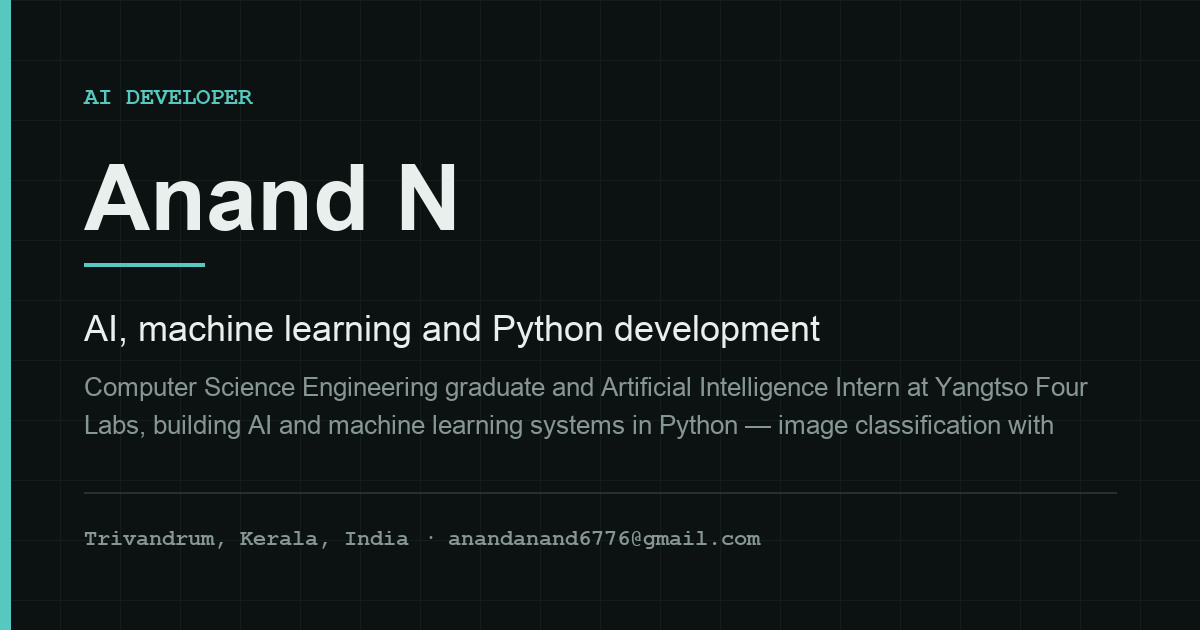
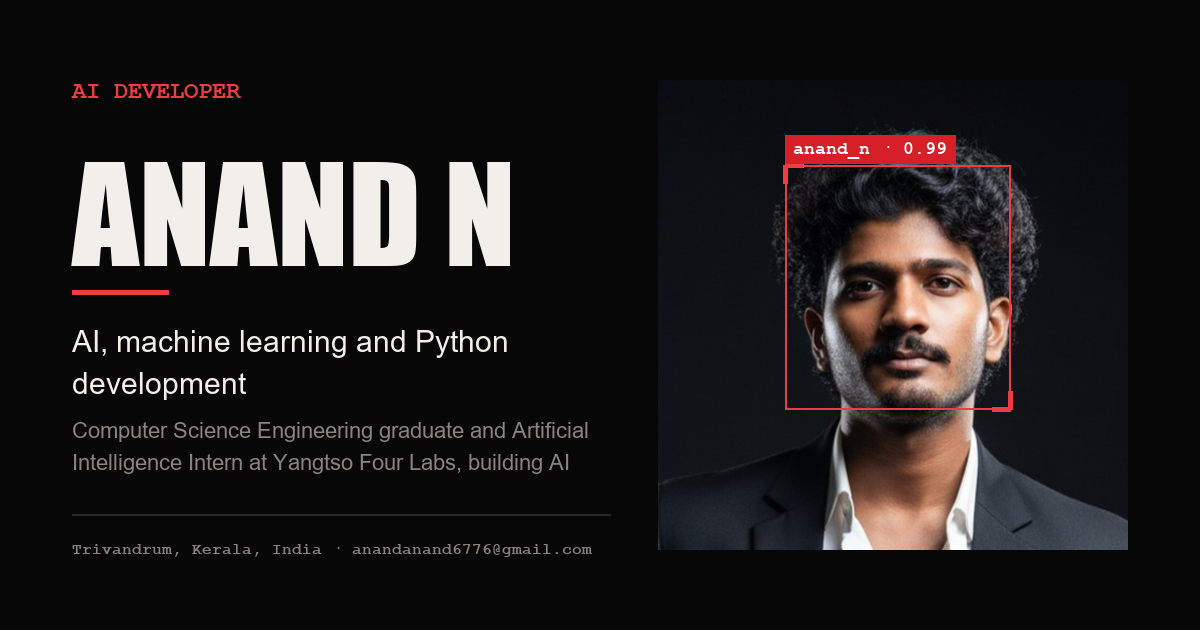
Add portrait export and redraw the link-preview card

diff --git a/portfolio/management/commands/make_og_image.py b/portfolio/management/commands/make_og_image.py
@@ -3,48 +3,60 @@ Render the link-preview (Open Graph) image.
 
 Social platforms will not render an SVG og:image and do not execute CSS, so
 the card has to exist as a raster file. Generating it from the site's own
-identity settings — rather than hand-designing one in an image editor — means
-it cannot drift out of date when the name, role or tagline changes.
+identity settings — rather than hand-designing one in an image editor —
+means it cannot drift out of date when the name, role or tagline changes.
 
-    python manage.py make_og_image
+    python manage.py make_og_image --photo design/photos/1000256302.jpg
 
-Pillow is already a dependency (ImageField), so this adds no new packages.
+The headshot is optional; without it the card is text only. Pillow is
+already a dependency (ImageField), so this adds no new packages.
 """
 from pathlib import Path
 
 from django.conf import settings
 from django.core.management.base import BaseCommand, CommandError
-from PIL import Image, ImageDraw, ImageFont
+from PIL import Image, ImageDraw, ImageFont, ImageOps
+
+from portfolio.templatetags.portfolio_extras import handle as detection_handle
 
 # Facebook, LinkedIn, Slack and X all crop toward 1.91:1.
 WIDTH, HEIGHT = 1200, 630
-MARGIN = 84
+MARGIN = 72
+PHOTO_SIZE = 470
+GAP = 48
 
 # Pulled from the dark theme in variables.css. Duplicated deliberately: the
-# generator cannot parse CSS custom properties, and a link preview that
-# silently stopped matching the site would be worse than one that is pinned.
-BG = (12, 18, 17)
-SURFACE = (20, 29, 28)
-ACCENT = (86, 200, 192)
-TEXT = (232, 239, 236)
-MUTED = (134, 150, 146)
-RULE = (38, 49, 47)
+# generator cannot parse CSS custom properties, and a preview that silently
+# stopped matching the site would be worse than one that is pinned.
+BG = (7, 7, 7)
+ACCENT = (239, 59, 66)
+ACCENT_FILL = (214, 31, 38)
+TEXT = (242, 239, 234)
+MUTED = (138, 132, 126)
+RULE = (38, 38, 38)
+WHITE = (255, 255, 255)
 
-# Preference order: the site's own typeface if it happens to be installed,
-# then a reasonable sans on each platform.
+# Where the face sits inside the square headshot crop, as fractions
+# (left, top, right, bottom). Tuned for design/photos/1000256302.jpg.
+FACE_BOX = (0.27, 0.18, 0.75, 0.70)
+
+# Preference order: the site's own typefaces if installed, then the closest
+# common system faces. Impact stands in for Anton on Windows.
 FONT_CANDIDATES = {
-    'bold': [
-        '/Library/Fonts/IBMPlexSans-Bold.ttf',
-        '~/Library/Fonts/IBMPlexSans-Bold.ttf',
-        '/usr/share/fonts/truetype/ibm-plex/IBMPlexSans-Bold.ttf',
-        '/System/Library/Fonts/Supplemental/Arial Bold.ttf',
+    'display': [
+        '~/Library/Fonts/Anton-Regular.ttf',
+        '/Library/Fonts/Anton-Regular.ttf',
+        '/usr/share/fonts/truetype/anton/Anton-Regular.ttf',
+        'C:/Windows/Fonts/Anton-Regular.ttf',
+        '/System/Library/Fonts/Supplemental/Impact.ttf',
+        '/usr/share/fonts/truetype/msttcorefonts/Impact.ttf',
+        'C:/Windows/Fonts/impact.ttf',
+        'C:/Windows/Fonts/ariblk.ttf',
         '/usr/share/fonts/truetype/dejavu/DejaVuSans-Bold.ttf',
-        'C:/Windows/Fonts/arialbd.ttf',
     ],
     'regular': [
-        '/Library/Fonts/IBMPlexSans-Regular.ttf',
-        '~/Library/Fonts/IBMPlexSans-Regular.ttf',
-        '/usr/share/fonts/truetype/ibm-plex/IBMPlexSans-Regular.ttf',
+        '~/Library/Fonts/Archivo-Regular.ttf',
+        '/usr/share/fonts/truetype/archivo/Archivo-Regular.ttf',
         '/System/Library/Fonts/Supplemental/Arial.ttf',
         '/usr/share/fonts/truetype/dejavu/DejaVuSans.ttf',
         'C:/Windows/Fonts/arial.ttf',
@@ -69,6 +81,16 @@ def _font(kind, size):
     return ImageFont.load_default()
 
 
+def _fit(draw, text, kind, size, max_width, minimum=40):
+    """The largest font of `kind`, from `size` down, that fits `text`."""
+    while size > minimum:
+        font = _font(kind, size)
+        if draw.textlength(text, font=font) <= max_width:
+            return font
+        size -= 4
+    return _font(kind, minimum)
+
+
 def _wrap(draw, text, font, max_width):
     """Greedy word wrap against the rendered width of each candidate line."""
     lines, line = [], ''
@@ -84,6 +106,37 @@ def _wrap(draw, text, font, max_width):
     return lines
 
 
+def _draw_photo(image, draw, photo_path):
+    """The headshot on the right, square-cropped, with the hero's detection box."""
+    with Image.open(photo_path) as source:
+        photo = ImageOps.fit(
+            ImageOps.exif_transpose(source).convert('RGB'),
+            (PHOTO_SIZE, PHOTO_SIZE),
+            Image.Resampling.LANCZOS,
+            centering=(0.5, 0.35),
+        )
+    left = WIDTH - MARGIN - PHOTO_SIZE
+    top = (HEIGHT - PHOTO_SIZE) // 2
+    image.paste(photo, (left, top))
+
+    x0 = left + round(PHOTO_SIZE * FACE_BOX[0])
+    y0 = top + round(PHOTO_SIZE * FACE_BOX[1])
+    x1 = left + round(PHOTO_SIZE * FACE_BOX[2])
+    y1 = top + round(PHOTO_SIZE * FACE_BOX[3])
+    draw.rectangle([x0, y0, x1, y1], outline=ACCENT, width=2)
+
+    arm = 18
+    for corner_x, corner_y, step in ((x0, y0, 1), (x1, y1, -1)):
+        draw.line([(corner_x, corner_y), (corner_x + step * arm, corner_y)], fill=ACCENT, width=5)
+        draw.line([(corner_x, corner_y), (corner_x, corner_y + step * arm)], fill=ACCENT, width=5)
+
+    label = f'{detection_handle(settings.SITE_OWNER)} · 0.99'
+    font = _font('mono', 18)
+    label_width = draw.textlength(label, font=font)
+    draw.rectangle([x0, y0 - 30, x0 + label_width + 16, y0 - 2], fill=ACCENT_FILL)
+    draw.text((x0 + 8, y0 - 26), label, font=font, fill=WHITE)
+
+
 class Command(BaseCommand):
     help = 'Render the Open Graph link-preview image into the static tree.'
 
@@ -92,61 +145,66 @@ class Command(BaseCommand):
             '--output',
             help='Destination path. Defaults to static/<OG_IMAGE_STATIC_PATH>.',
         )
+        parser.add_argument(
+            '--photo',
+            help='Optional headshot placed on the right of the card.',
+        )
 
     def handle(self, *args, **options):
         relative = settings.OG_IMAGE_STATIC_PATH
         if not relative:
             raise CommandError('OG_IMAGE_STATIC_PATH is empty; nothing to render.')
 
+        photo = Path(options['photo']) if options['photo'] else None
+        if photo is not None and not photo.is_file():
+            raise CommandError(f'{photo} does not exist.')
+
         destination = Path(options['output']) if options['output'] else (
-            settings.BASE_DIR / 'static' / relative
+            Path(settings.BASE_DIR) / 'static' / relative
         )
         destination.parent.mkdir(parents=True, exist_ok=True)
 
         image = Image.new('RGB', (WIDTH, HEIGHT), BG)
         draw = ImageDraw.Draw(image)
 
-        # Faint engineering grid, echoing the hero background.
-        for x in range(0, WIDTH, 60):
-            draw.line([(x, 0), (x, HEIGHT)], fill=SURFACE, width=1)
-        for y in range(0, HEIGHT, 60):
-            draw.line([(0, y), (WIDTH, y)], fill=SURFACE, width=1)
+        text_width = WIDTH - 2 * MARGIN
+        if photo is not None:
+            _draw_photo(image, draw, photo)
+            text_width -= PHOTO_SIZE + GAP
 
-        # Accent bar down the left edge.
-        draw.rectangle([0, 0, 10, HEIGHT], fill=ACCENT)
+        y = MARGIN + 6
+        draw.text((MARGIN, y), settings.SITE_ROLE.upper(), font=_font('mono', 24), fill=ACCENT)
+        y += 54
 
-        eyebrow_font = _font('mono', 24)
-        name_font = _font('bold', 92)
-        role_font = _font('regular', 36)
-        tag_font = _font('regular', 26)
+        name = settings.SITE_OWNER.upper()
+        name_font = _fit(draw, name, 'display', 132, text_width)
+        draw.text((MARGIN, y), name, font=name_font, fill=TEXT)
+        y += getattr(name_font, 'size', 60) + 26
 
-        y = MARGIN
+        draw.rectangle([MARGIN, y, MARGIN + 96, y + 4], fill=ACCENT)
+        y += 34
 
-        draw.text((MARGIN, y), settings.SITE_ROLE.upper(), font=eyebrow_font, fill=ACCENT)
-        y += 62
+        focus_font = _font('regular', 30)
+        for line in _wrap(draw, settings.SITE_FOCUS, focus_font, text_width)[:2]:
+            draw.text((MARGIN, y), line, font=focus_font, fill=TEXT)
+            y += 42
 
-        draw.text((MARGIN, y), settings.SITE_OWNER, font=name_font, fill=TEXT)
-        y += 118
+        y += 10
+        description_font = _font('regular', 22)
+        for line in _wrap(draw, settings.SITE_DESCRIPTION, description_font, text_width)[:2]:
+            draw.text((MARGIN, y), line, font=description_font, fill=MUTED)
+            y += 32
 
-        draw.line([(MARGIN, y), (MARGIN + 120, y)], fill=ACCENT, width=4)
-        y += 44
-
-        for line in _wrap(draw, settings.SITE_FOCUS, role_font, WIDTH - 2 * MARGIN)[:2]:
-            draw.text((MARGIN, y), line, font=role_font, fill=TEXT)
-            y += 50
-
-        y += 14
-        for line in _wrap(draw, settings.SITE_DESCRIPTION, tag_font, WIDTH - 2 * MARGIN)[:2]:
-            draw.text((MARGIN, y), line, font=tag_font, fill=MUTED)
-            y += 38
-
-        # Footer rule with the contact line.
-        footer_y = HEIGHT - MARGIN - 20
-        draw.line([(MARGIN, footer_y - 34), (WIDTH - MARGIN, footer_y - 34)], fill=RULE, width=2)
+        footer_y = HEIGHT - MARGIN - 18
+        draw.line(
+            [(MARGIN, footer_y - 26), (MARGIN + text_width, footer_y - 26)],
+            fill=RULE, width=2,
+        )
         footer = ' · '.join(
             part for part in (settings.SITE_LOCATION, settings.SITE_EMAIL) if part
         )
-        draw.text((MARGIN, footer_y), footer, font=_font('mono', 22), fill=MUTED)
+        footer_font = _fit(draw, footer, 'mono', 20, text_width, minimum=12)
+        draw.text((MARGIN, footer_y), footer, font=footer_font, fill=MUTED)
 
         image.save(destination, 'PNG', optimize=True)
         self.stdout.write(self.style.SUCCESS(f'Wrote {destination} ({WIDTH}x{HEIGHT})'))

diff --git a/portfolio/test_redesign.py b/portfolio/test_redesign.py
@@ -70,3 +70,93 @@ class ChromeTest(TestCase):
         self.assertIn('class="nav-status"', home_html(self.client))
         with override_settings(SITE_AVAILABILITY=""):
             self.assertNotIn('class="nav-status"', home_html(self.client))
+
+
+class HandleFilterTest(SimpleTestCase):
+    """The label on the hero's detection box, derived from SITE_OWNER."""
+
+    def test_lowercases_and_joins_words_with_underscores(self):
+        from .templatetags.portfolio_extras import handle
+
+        self.assertEqual(handle("Anand N"), "anand_n")
+        self.assertEqual(handle("  Mary   Ann Lee "), "mary_ann_lee")
+        self.assertEqual(handle(""), "")
+
+
+class PortraitCommandTest(SimpleTestCase):
+    """make_portrait exports the hero photo at the widths the template serves."""
+
+    def _source(self, folder, size=(800, 1400)):
+        path = Path(folder) / "source.jpg"
+        Image.new("RGB", size, (40, 40, 40)).save(path, "JPEG")
+        return path
+
+    def test_writes_both_widths_as_webp_keeping_the_aspect_ratio(self):
+        with tempfile.TemporaryDirectory() as tmp:
+            source = self._source(tmp)
+            call_command("make_portrait", str(source), "--output-dir", tmp, stdout=io.StringIO())
+            for width in (480, 768):
+                with self.subTest(width=width):
+                    with Image.open(Path(tmp) / f"portrait-{width}.webp") as image:
+                        self.assertEqual(image.format, "WEBP")
+                        self.assertEqual(image.size, (width, round(1400 * width / 800)))
+
+    def test_missing_source_is_a_clear_error(self):
+        with tempfile.TemporaryDirectory() as tmp:
+            with self.assertRaisesRegex(CommandError, "does not exist"):
+                call_command(
+                    "make_portrait", str(Path(tmp) / "nope.jpg"),
+                    "--output-dir", tmp, stdout=io.StringIO(),
+                )
+
+
+class LinkPreviewCommandTest(SimpleTestCase):
+    """make_og_image draws the card in the new palette, with an optional headshot."""
+
+    def test_renders_at_open_graph_size_on_the_dark_ground(self):
+        with tempfile.TemporaryDirectory() as tmp:
+            out = Path(tmp) / "og.png"
+            call_command("make_og_image", "--output", str(out), stdout=io.StringIO())
+            with Image.open(out) as image:
+                self.assertEqual(image.size, (1200, 630))
+                self.assertEqual(image.convert("RGB").getpixel((4, 4)), (7, 7, 7))
+
+    def test_places_the_headshot_on_the_right_when_given_one(self):
+        with tempfile.TemporaryDirectory() as tmp:
+            photo = Path(tmp) / "head.jpg"
+            Image.new("RGB", (400, 400), (0, 120, 255)).save(photo, "JPEG", quality=95)
+            out = Path(tmp) / "og.png"
+            call_command(
+                "make_og_image", "--photo", str(photo), "--output", str(out),
+                stdout=io.StringIO(),
+            )
+            with Image.open(out) as image:
+                # Right edge of the photo, clear of the detection box.
+                red, _green, blue = image.convert("RGB").getpixel((1200 - 72 - 30, 315))
+                self.assertGreater(blue, 200)
+                self.assertLess(red, 40)
+
+    def test_footer_line_never_runs_into_the_headshot(self):
+        with tempfile.TemporaryDirectory() as tmp:
+            photo = Path(tmp) / "head.jpg"
+            Image.new("RGB", (400, 400), (0, 120, 255)).save(photo, "JPEG", quality=95)
+            out = Path(tmp) / "og.png"
+            call_command(
+                "make_og_image", "--photo", str(photo), "--output", str(out),
+                stdout=io.StringIO(),
+            )
+            with Image.open(out) as image:
+                rgb = image.convert("RGB")
+                # The photo's left edge, level with the footer text.
+                for x in range(662, 720, 3):
+                    for y in range(538, 550):
+                        red, _green, blue = rgb.getpixel((x, y))
+                        self.assertTrue(blue > 200 and red < 40, (x, y, rgb.getpixel((x, y))))
+
+    def test_missing_photo_is_a_clear_error(self):
+        with tempfile.TemporaryDirectory() as tmp:
+            with self.assertRaisesRegex(CommandError, "does not exist"):
+                call_command(
+                    "make_og_image", "--photo", str(Path(tmp) / "nope.jpg"),
+                    "--output", str(Path(tmp) / "og.png"), stdout=io.StringIO(),
+                )

diff --git a/portfolio/management/commands/make_portrait.py b/portfolio/management/commands/make_portrait.py
@@ -1,0 +1,51 @@
+"""
+Export the hero portrait as the web-sized WebP files the hero serves.
+
+    python manage.py make_portrait design/photos/1000256303.jpg
+
+The original photo stays outside the static tree: design/ is git-ignored,
+and everything under static/ is published. The outputs are committed.
+"""
+from pathlib import Path
+
+from django.conf import settings
+from django.core.management.base import BaseCommand, CommandError
+from PIL import Image, ImageOps
+
+# Must match the srcset in templates/portfolio/sections/hero.html.
+WIDTHS = (480, 768)
+
+
+class Command(BaseCommand):
+    help = 'Export the hero portrait as WebP at the widths the hero serves.'
+
+    def add_arguments(self, parser):
+        parser.add_argument('source', help='Path to the original portrait.')
+        parser.add_argument('--output-dir', help='Destination folder. Defaults to static/img.')
+        parser.add_argument('--quality', type=int, default=82, help='WebP quality (default 82).')
+
+    def handle(self, *args, **options):
+        source = Path(options['source'])
+        if not source.is_file():
+            raise CommandError(f'{source} does not exist.')
+
+        output_dir = Path(options['output_dir']) if options['output_dir'] else (
+            Path(settings.BASE_DIR) / 'static' / 'img'
+        )
+        output_dir.mkdir(parents=True, exist_ok=True)
+
+        with Image.open(source) as original:
+            image = ImageOps.exif_transpose(original).convert('RGB')
+
+        for width in WIDTHS:
+            if image.width < width:
+                self.stderr.write(self.style.WARNING(
+                    f'{source} is only {image.width}px wide; upscaling to {width}px.'
+                ))
+            height = round(image.height * width / image.width)
+            resized = image.resize((width, height), Image.Resampling.LANCZOS)
+            destination = output_dir / f'portrait-{width}.webp'
+            resized.save(destination, 'WEBP', quality=options['quality'], method=6)
+            self.stdout.write(self.style.SUCCESS(
+                f'Wrote {destination} ({width}x{height}, {destination.stat().st_size // 1024} KB)'
+            ))

diff --git a/portfolio/templatetags/portfolio_extras.py b/portfolio/templatetags/portfolio_extras.py
@@ -1,0 +1,10 @@
+"""Template filters for the portfolio templates."""
+from django import template
+
+register = template.Library()
+
+
+@register.filter
+def handle(name):
+    """'Anand N' -> 'anand_n': the label on the hero's detection box."""
+    return "_".join(str(name).lower().split())
